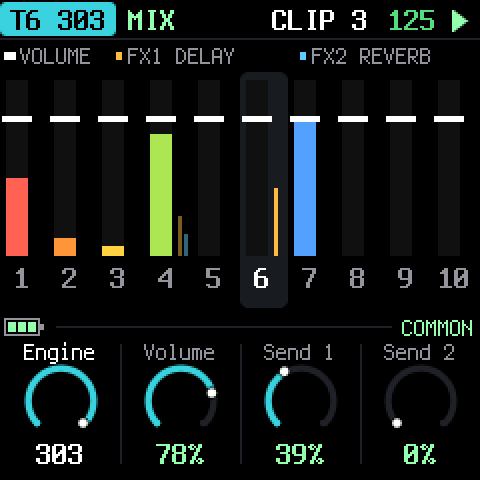
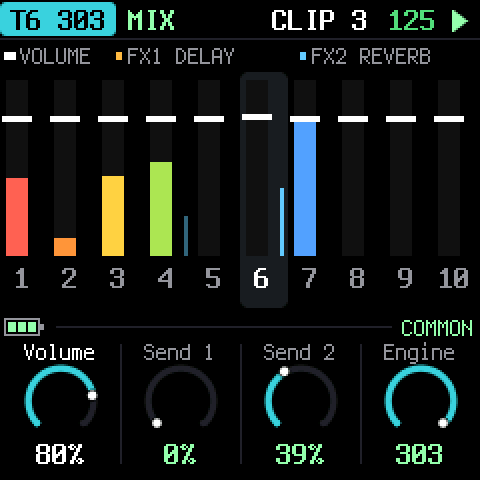
engine

diff --git a/firmware/src/tribe/ui.c b/firmware/src/tribe/ui.c
@@ -672,7 +672,7 @@ static void button_down(int b)
     case B_SAVE:
         break;
     case B_SEL:
-        ui.view = V_COMMON;                                           /* SEL: what every engine has: engine, volume, the two sends */
+        ui.view = V_COMMON;                                           /* SEL: what every engine has: volume, the two sends, engine */
         break;
     case B_OCTDN: case B_OCTUP: {
         int d = b == B_OCTUP ? 1 : -1;
@@ -751,15 +751,15 @@ static void input(void)
             }
         } else if (ui.view == V_COMMON) {
             int t = ui.trk, v;
-            if (i == 0) {                                  /* the engine of the clip on this track */
+            if (i == 3) {                                  /* the engine of the clip on this track */
                 int e = (cur_clip()->eng + eng_count() + (d > 0 ? 1 : -1)) % eng_count();
                 dk_engine(t, e);
                 fix_group();
-            } else if (i == 1) {
+            } else if (i == 0) {
                 v = proj.set.level[t] + d * 2;
                 proj.set.level[t] = (uint8_t)(v < 0 ? 0 : v > 127 ? 127 : v);
             } else {
-                uint8_t *sd = &proj.set.send[i - 2][t];
+                uint8_t *sd = &proj.set.send[i - 1][t];
                 v = *sd + d * 2;
                 *sd = (uint8_t)(v < 0 ? 0 : v > 127 ? 127 : v);
             }
@@ -1280,12 +1280,12 @@ static void draw_knobs(void)
             put_s(val, "-");
             u = 0.0f;
         } else if (cov) {
-            static const char *const CN[4] = {"Engine", "Volume", "Send 1", "Send 2"};
+            static const char *const CN[4] = {"Volume", "Send 1", "Send 2", "Engine"};
             int t = ui.trk;
             lab = CN[i];
-            if (i == 0) { put_s(val, eng_info(c->eng)->name); u = (float)c->eng / (float)(eng_count() - 1); }
-            else if (i == 1) { put_s(put_i(val, proj.set.level[t] * 100 / 127), "%"); u = (float)proj.set.level[t] / 127.0f; }
-            else { put_s(put_i(val, proj.set.send[i - 2][t] * 100 / 127), "%"); u = (float)proj.set.send[i - 2][t] / 127.0f; }
+            if (i == 3) { put_s(val, eng_info(c->eng)->name); u = (float)c->eng / (float)(eng_count() - 1); }
+            else if (i == 0) { put_s(put_i(val, proj.set.level[t] * 100 / 127), "%"); u = (float)proj.set.level[t] / 127.0f; }
+            else { put_s(put_i(val, proj.set.send[i - 1][t] * 100 / 127), "%"); u = (float)proj.set.send[i - 1][t] / 127.0f; }
         } else if (arpv) {
             static const char *const AN[4] = {"MODE", "RATE", "GATE", "OCT"};
             int t = ui.trk;
@@ -1364,7 +1364,7 @@ static void leds(void)
     if (ui.view == V_COMMON)
         b |= 1u << B_SEL;
     else
-        bd |= 1u << B_SEL;                               /* SEL: the common page (engine, volume, sends); dim = it is there */
+        bd |= 1u << B_SEL;                               /* SEL: the common page (volume, sends, engine); dim = it is there */
     if (ui.view == V_ARP) b |= 1u << B_ARP;
     if (ui.view == V_REC) b |= 1u << B_REC;
     plat_play_red(ui.view == V_REC);

diff --git a/docs/MANUAL.md b/docs/MANUAL.md
@@ -81,7 +81,7 @@ TRIBE starts with a small beat already in it, so there is something to hear stra
 5. Hold the eleventh black key (**MUTE**) and tap a track key to mute or unmute that track.
 6. Press **HOME** for the clips: sixteen per track. Press a white key to launch one. It switches at
    the end of the pattern; press it again to switch at once.
-7. Press **SEL** for the mix: each track's engine, volume and its two sends.
+7. Press **SEL** for the mix: each track's volume, its two sends and engine.
 8. Press **SAVE** when you like what you hear.
 
 ---
@@ -97,7 +97,7 @@ The drawing at the top of the manual names every control. In more detail:
 | OCT-, OCT+ | Page through the steps (SEQ) or the sound pages (FX, ENV, LFO, EDIT). On the keyboard (ARP, REC), the octave. |
 | KNOB 1–4 | The four values at the bottom of the screen. |
 | FX, ENV, LFO, EDIT | The track's sound, in four groups of parameters. Press the same button again for the next page of four. A button is dark when the engine has nothing in that group. |
-| SEL | The mix: engine, volume and sends of every track. |
+| SEL | The mix: volume, sends and engine of every track. |
 | GLO | The global settings. |
 | HOME | The clips. |
 | SAVE | The save pick (see Saving). |
@@ -118,7 +118,7 @@ knobs.
 ## 4. Tracks and engines
 
 There are ten tracks. Each plays one **engine**, which belongs to the clip, so changing clips can
-change the engine too. Choose it on the SEL page, with KNOB 1.
+change the engine too. Choose it on the SEL page, with KNOB 4.
 
 | Engine | What it is |
 |---|---|
@@ -270,14 +270,14 @@ how long you held the key). Stopped, REC just plays.
 (after the volume and the mute), the white tick the volume, and the two thin bars its sends.
 Black keys pick the track.
 
-![SEL: engine, volume and the two sends](img/screen-sel.png)
+![SEL: volume, the two sends and engine](img/screen-sel.png)
 
 | Knob | |
 |---|---|
-| ENGINE | which engine the clip on this track plays |
 | VOLUME | the track's level |
 | SEND 1 | how much goes to FX 1 |
 | SEND 2 | how much goes to FX 2 |
+| ENGINE | which engine the clip on this track plays |
 
 The sends start closed. **FX 1 and FX 2** are two master effects (chosen in GLO, next section): raise
 a track's send to put it in the echo or the room. Sends are after the volume and the mute.
